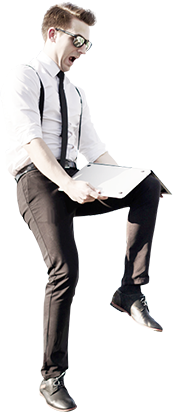
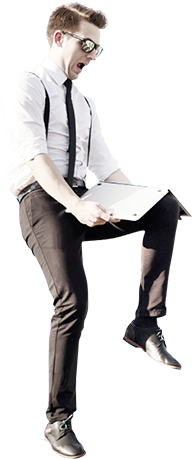
add shadow

diff --git a/src/html/section-6.html b/src/html/section-6.html
@@ -1,10 +1,17 @@
 <div class="container warning-section">
     <div class="warning-section-image">
         <img class="warning-section-image__photo"
-        srcset="./images/desktop/Layer_428.png 173w"
+        srcset="./images/tablet/Layer_428.png 173w, ./images/desktop/Layer_428.png 192w, ./images/desktop/Layer_428@2x.png 384w"
         src="./images/desktop/Layer_428.png" 
         alt="working man"
-        sizes="173px">
+        sizes="(max-width: 1199px) 173px,
+               (min-width: 1200px) 192px">
+        <img class="warning-section-image__photo-shadow"
+        srcset="./images/tablet/Layer_440.png 265w, ./images/desktop/Layer_440.png 295w"
+        src="./images/desktop/Layer_440.png" 
+        alt="working man"
+        sizes="(max-width: 1199px) 265px,
+               (min-width: 1200px) 295px">
         <p class="warning-section-image__text">hard</p>
     </div>
     <section class="list-section">

diff --git a/src/sass/components/warning-section.scss b/src/sass/components/warning-section.scss
@@ -17,7 +17,15 @@
     &__photo {
         @include tablet {
         position: absolute;
-        bottom: 9%;
+        right: 25%;
+        z-index: 1;
+        }
+    }
+    &__photo-shadow {
+        @include tablet {
+        position: absolute;
+        bottom: -5%;
+        right: 3%;
         }
     }
     &__text {
